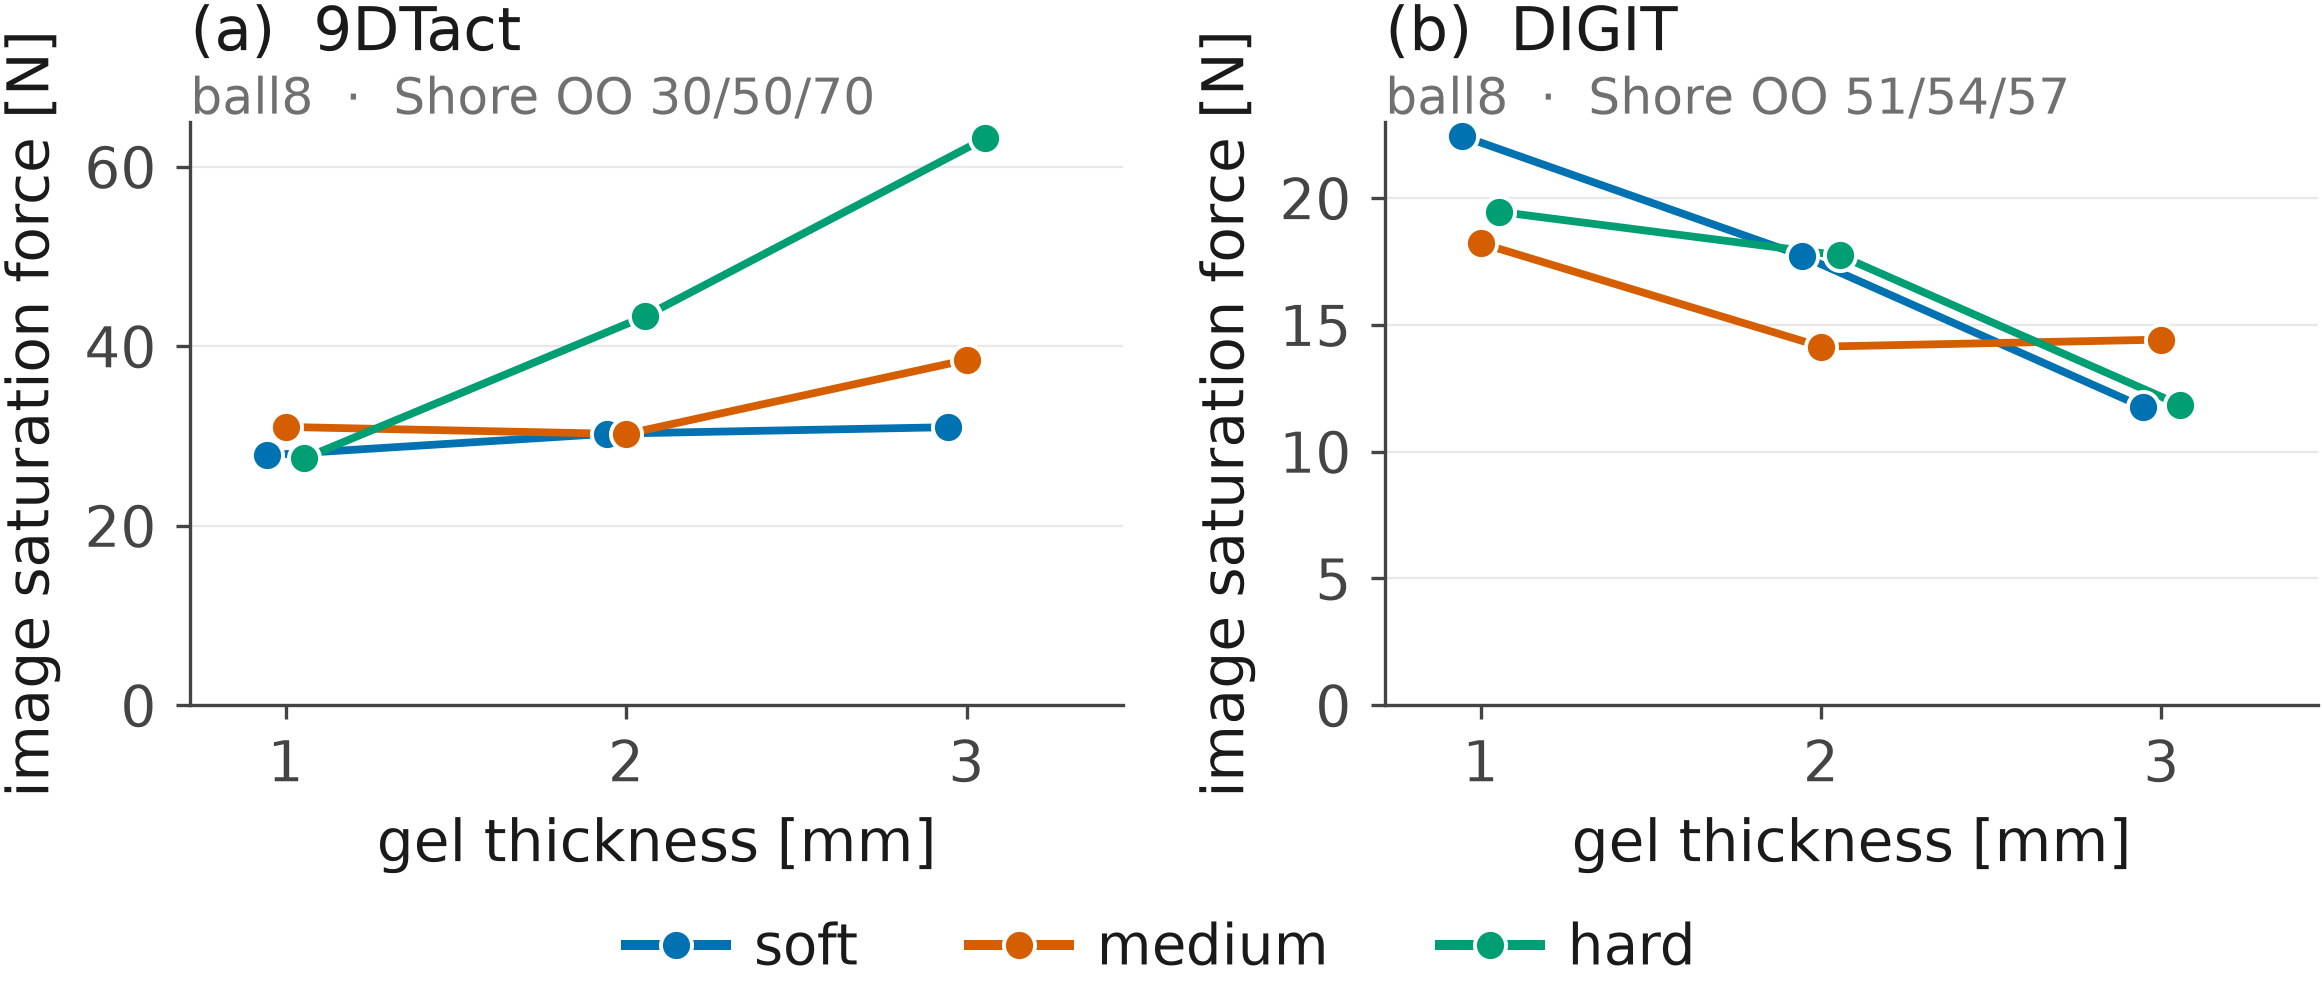
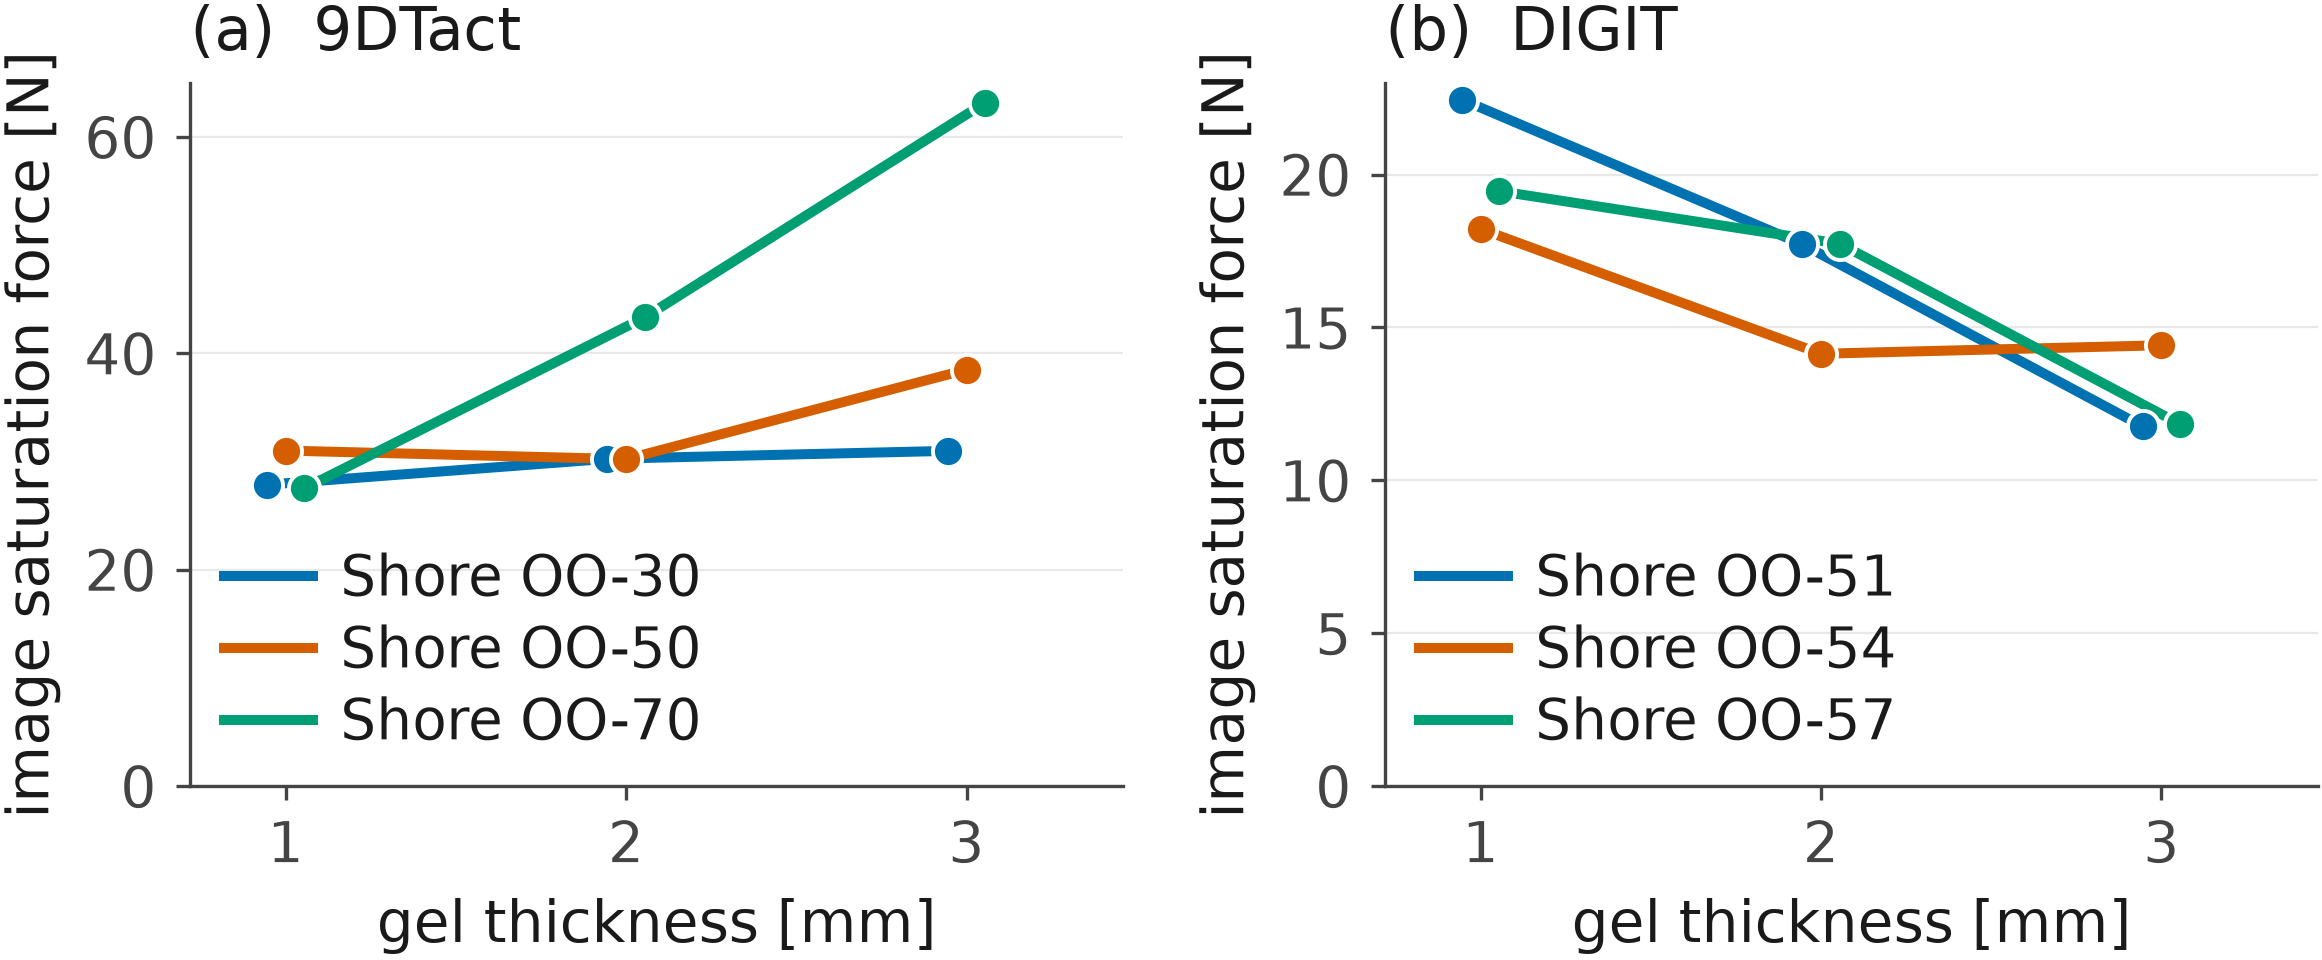
fig_ceiling — 범례를 칸마다 실측 쇼어로, 부제는 뺀다 (운전자 요청)
두 계열의 쇼어 눈금이 다르므로(30/50/70 대 51/54/57) 공용 범례 한 줄로는
둘을 함께 적을 수 없다. 칸마다 범례를 달았다. 범례가 눈금을 지고 나면 부제가
할 일이 없어져 통째로 뺐고, 거기 있던 프로브(ball8)는 캡션이 진다.

Claude-Session: https://claude.ai/code/session_016iQhAWxVDAfi9YqRbr7KDo

diff --git a/paper/fin_figures/paper_fig_ceiling.py b/paper/fin_figures/paper_fig_ceiling.py
@@ -40,12 +40,15 @@ CV 21 % — 부록 C) 애초에 나머지 둘과 세로로 견줄 수 없는 패
     ΔE 11.0 deutan) 색각 이상에서는 읽히고, 남는 위험은 **흑백 인쇄**다.
 
 캡션이 져야 할 것
-    1. **어느 패널이 무엇인가** — 제목의 `(a)` `(b)` `(c)` 와 원리 이름.
+    0. **프로브가 `ball8`** 이라는 것. 부제를 뺐으므로 그림에 안 적혀 있다.
+    1. **어느 패널이 무엇인가** — 제목의 `(a)` `(b)` 와 원리 이름.
     2. **세로 축이 패널마다 다르고 값을 가로로 견주면 안 된다**는 것
        (상대 기준 + Marker 는 프로브가 다름).
-    3. **두께 경향** — 9DTact ρ +0.63 (p 0.068) 대 DIGIT −0.90 (p 0.001),
-       Marker −0.53 (p 0.145). 그림에서 뺐고 `fig_ceiling_stats.csv` 에 있다.
-       경도는 세 원리 모두 비유의(+0.37 / +0.05 / −0.11).
+    3. **두께 경향** — 9DTact ρ +0.63 (p 0.068) 대 DIGIT −0.90 (p 0.001).
+       그림에서 뺐고 `fig_ceiling_stats.csv` 에 있다. 경도는 둘 다 비유의
+       (+0.37 / +0.05).
+    4. **쇼어 폭이 다르다** — 범례가 눈금을 적지만 9DTact 는 40 점, DIGIT 은
+       6 점을 흔들었다는 사실은 빼서 읽어야 한다.
 
 자료
     `result/single/extra/data/B_ceiling_vs_thickness.csv`  (분석 집합 27)
@@ -55,8 +58,6 @@ from itertools import combinations
 import numpy as np
 import pandas as pd
 from scipy.stats import spearmanr
-
-from matplotlib.lines import Line2D
 
 import paper_style as PS
 from paper_style import HARD3, SHORE, DISPLAY
@@ -108,7 +109,8 @@ def main():
         for h in HARDNESS:
             col, dx = HARD3[h], DODGE[h]
             g = one[one.hardness == h].sort_values("thickness_mm")
-            ax.plot(g.thickness_mm + dx, g.ceiling_N, "-", c=col, lw=1.4, zorder=3)
+            ax.plot(g.thickness_mm + dx, g.ceiling_N, "-", c=col, lw=1.8,
+                    label=f"Shore OO-{SHORE[pr][h]}", zorder=3)
             ax.plot(g.thickness_mm + dx, g.ceiling_N, "o", c=col,
                     ms=5.6, mec="white", mew=0.7, ls="none", zorder=4)
 
@@ -121,12 +123,9 @@ def main():
                           p_asymptotic=p_as, rho_hardness=rho_h, p_hardness=p_h,
                           n_units=len(one)))
 
-        sh = SHORE[pr]
-        probe = one.probe.iloc[0]
-        ax.set_title(f"({tag})  {DISPLAY[pr]}", loc="left", pad=13)
-        ax.annotate(f"{probe}  ·  Shore OO {sh['soft']}/{sh['medium']}/{sh['hard']}",
-                    xy=(0, 1.015), xycoords="axes fraction",
-                    fontsize=9.0, color=PS.MUTED)
+        ax.set_title(f"({tag})  {DISPLAY[pr]}", loc="left")
+        ax.legend(loc="lower left", frameon=False, handlelength=1.6,
+                  handletextpad=0.5, labelspacing=0.28, borderpad=0.1)
         ax.set_xticks([1, 2, 3])
         ax.set_xlim(0.72, 3.46)
         ax.set_ylim(0, None)
@@ -134,12 +133,7 @@ def main():
         ax.set_ylabel("image saturation force [N]")
         PS.style(ax)
 
-    fig.tight_layout(w_pad=1.3, rect=[0, 0.075, 1, 1])
-    hs = [Line2D([], [], color=HARD3[h], marker="o", ms=5.6, lw=1.8,
-                 mec="white", mew=0.7, label=h) for h in HARDNESS]
-    fig.legend(handles=hs, loc="lower center", ncol=3, frameon=False,
-               handlelength=1.8, columnspacing=2.0,
-               handletextpad=0.5, bbox_to_anchor=(0.5, -0.008))
+    fig.tight_layout(w_pad=1.3)
     out = single[single.principle.isin(PRINCIPLES)][
         ["principle", "probe", "unit", "hardness", "thickness_mm", "ceiling_N"]]
     PS.save(fig, out, "fig_ceiling")
